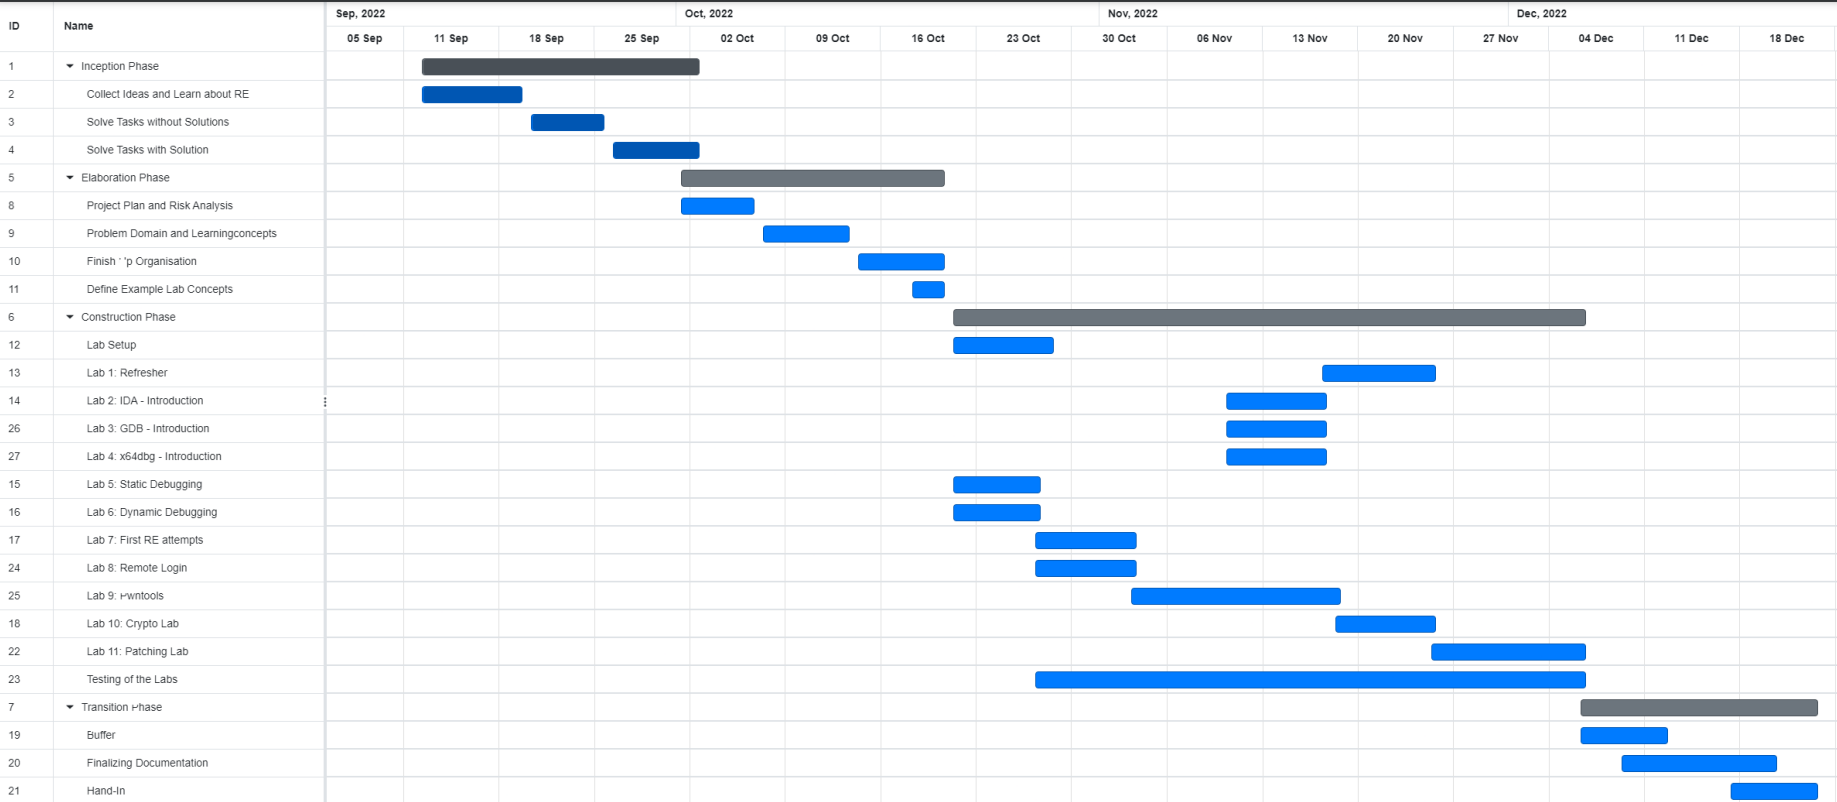
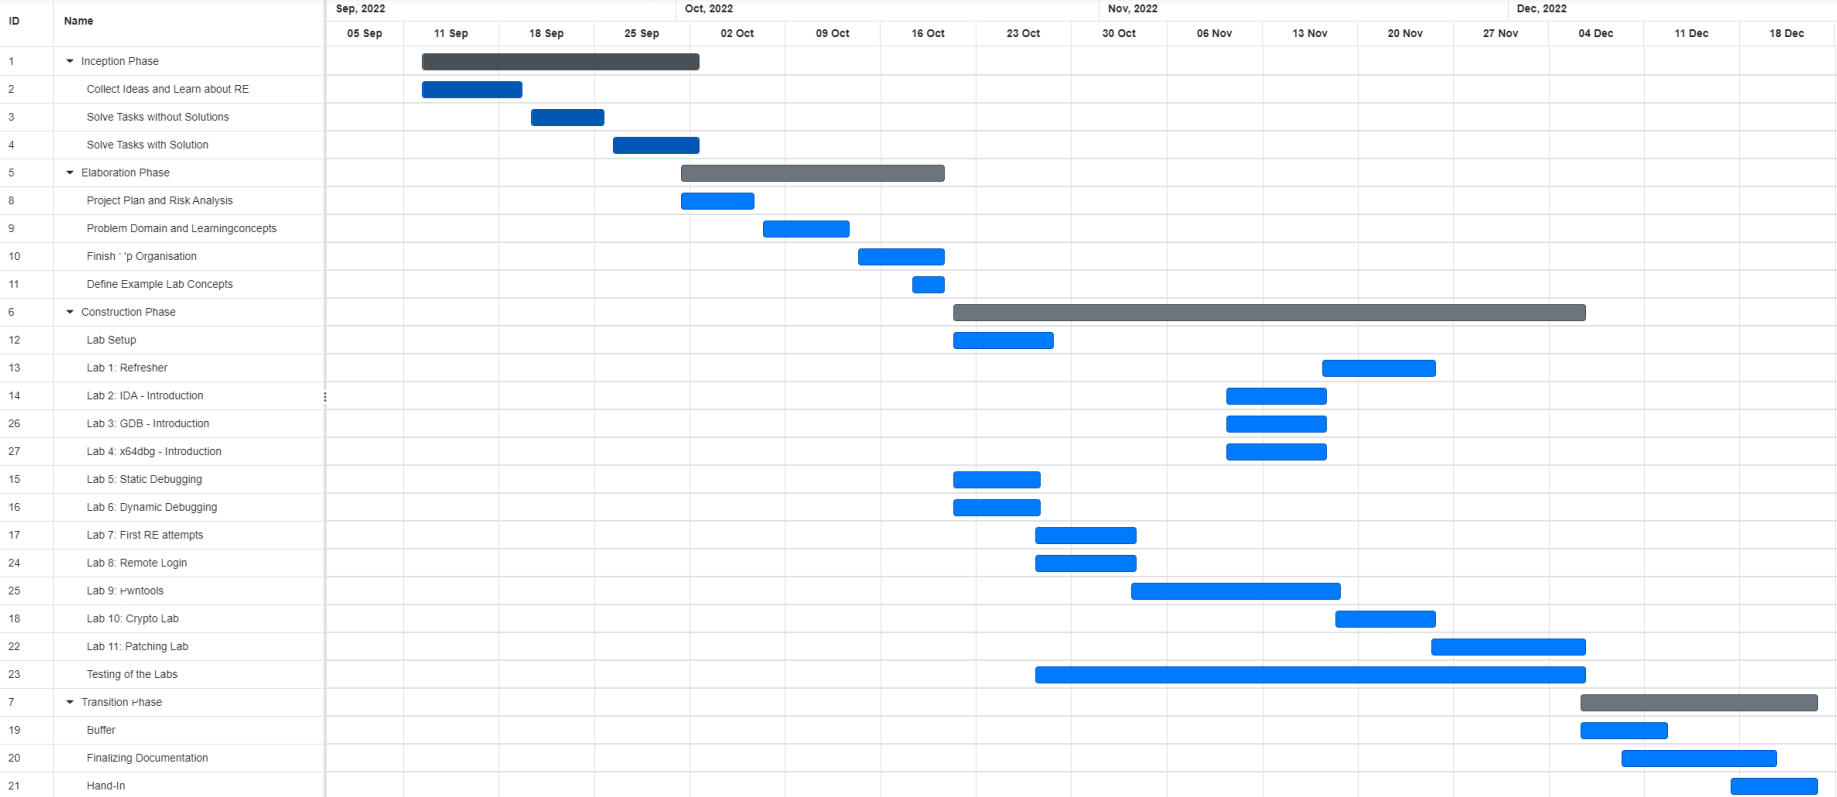
fixed gantt

diff --git a/documents/documentation/src/04_Project-Documentation/project-documentation.tex b/documents/documentation/src/04_Project-Documentation/project-documentation.tex
@@ -240,7 +240,7 @@ The issue tracking is done on GitLabs own interface to have as few difficulties 
 \begin{figure}[H]
     \centering
     \begin{sideways}
-    \includegraphics[width=600pt, height=380pt]{resources/gantt.png}
+    \includegraphics[width=600pt, height=330pt]{resources/gantt.png}
     \end{sideways}
     \caption{GANTT chart}
     \label{gantt_figure}
